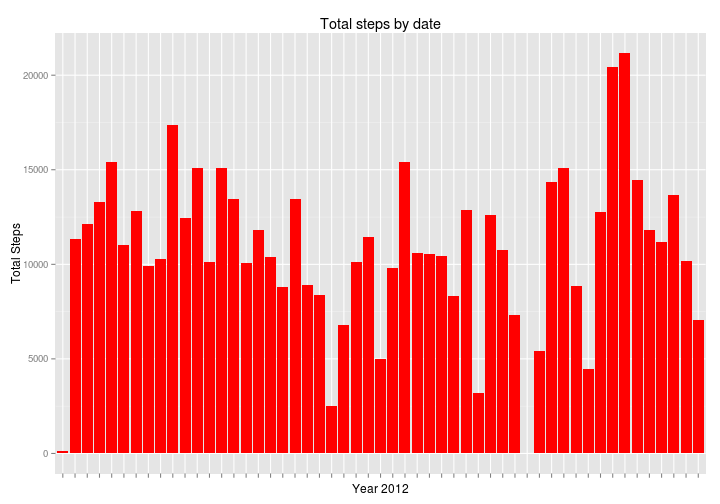
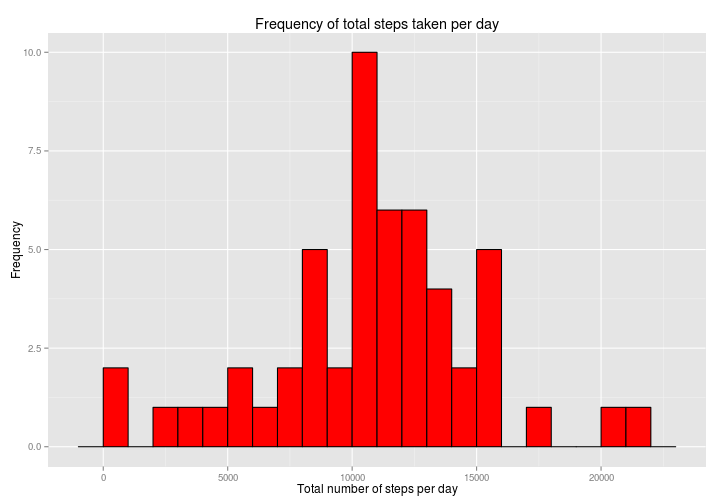
finish part 1

diff --git a/PA1_template.html b/PA1_template.html
@@ -183,18 +183,23 @@ hljs.initHighlightingOnLoad();
 
 <h2>Loading and preprocessing the data</h2>
 
-<pre><code class="r">options(scipen=999)
+<pre><code class="r">library(plyr)
+options(scipen=999)
 zipPath &lt;- &quot;activity.zip&quot;;
 filename &lt;- &quot;activity.csv&quot;;
 csvfile &lt;- unz (zipPath, filename);
 raw_data &lt;- read.csv(csvfile)
-clean_data = raw_data[!is.na(raw_data$steps), ]
-non_zero_data = clean_data[clean_data$steps != 0, c(&#39;date&#39;, &#39;steps&#39;)]
+clean_data &lt;- raw_data[!is.na(raw_data$steps), ]
+clean_data &lt;- clean_data[clean_data$steps != 0, c(&#39;date&#39;, &#39;steps&#39;)]
 
 # group data by date and sum the steps
-aggregate_data &lt;- aggregate(x=non_zero_data$steps, by=list(non_zero_data$date), FUN = sum)
+aggregate_data &lt;- aggregate(x=clean_data$steps, by=list(clean_data$date), FUN = sum)
 colnames(aggregate_data) &lt;- c(&#39;date&#39;, &#39;total_steps&#39;)
-aggregate_data$month_date &lt;- substr(aggregate_data$date, 6, nchar(as.character(aggregate_data$date)))
+
+# group by number of steps and count number of occurrences
+aggregate_steps &lt;- count(aggregate_data, &quot;total_steps&quot;)
+colnames(aggregate_steps) &lt;- c(&#39;steps&#39;, &#39;frequency&#39;)
+aggregate_data &lt;- aggregate_data[order(aggregate_data$total_steps), ]
 
 mean_steps = mean(aggregate_data$total_steps)
 median_steps = median(aggregate_data$total_steps)
@@ -203,15 +208,16 @@ median_steps = median(aggregate_data$total_steps)
 <h2>What is mean total number of steps taken per day?</h2>
 
 <pre><code class="r">library(ggplot2)
-p1 &lt;- ggplot(data=aggregate_data, aes(x=aggregate_data$month_date,y=aggregate_data$total_steps)) + geom_bar(stat=&quot;identity&quot;, fill=&quot;red&quot;) + ggtitle(&quot;Total steps by date&quot;) + xlab(&#39;Year 2012&#39;) + ylab(&#39;Total Steps&#39;) + theme(axis.text.x = element_blank())
+p1 &lt;- ggplot(aggregate_data, aes(x=aggregate_data$total_steps))
+p1 &lt;- p1 + geom_histogram(fill=&quot;red&quot;, color=&quot;black&quot;, binwidth=1000) + ggtitle(&quot;Frequency of total steps taken per day&quot;) + xlab(&#39;Total number of steps per day&#39;) + ylab(&#39;Frequency&#39;)
 print (p1)
 </code></pre>
 
[2 lines of base64/hex data omitted]
 
 <ol>
-<li>The mean total number of steps is 10766.1887.</li>
-<li>The median total number of steps is 10765.</li>
+<li>The mean total number of steps taken per day is 10766.1887.</li>
+<li>The median total number of steps taken per day is 10765.</li>
 </ol>
 
 <h2>What is the average daily activity pattern?</h2>

diff --git a/PA1_template.md b/PA1_template.md
@@ -5,18 +5,23 @@
 
 
 ```r
+library(plyr)
 options(scipen=999)
 zipPath <- "activity.zip";
 filename <- "activity.csv";
 csvfile <- unz (zipPath, filename);
 raw_data <- read.csv(csvfile)
-clean_data = raw_data[!is.na(raw_data$steps), ]
-non_zero_data = clean_data[clean_data$steps != 0, c('date', 'steps')]
+clean_data <- raw_data[!is.na(raw_data$steps), ]
+clean_data <- clean_data[clean_data$steps != 0, c('date', 'steps')]
 
 # group data by date and sum the steps
-aggregate_data <- aggregate(x=non_zero_data$steps, by=list(non_zero_data$date), FUN = sum)
+aggregate_data <- aggregate(x=clean_data$steps, by=list(clean_data$date), FUN = sum)
 colnames(aggregate_data) <- c('date', 'total_steps')
-aggregate_data$month_date <- substr(aggregate_data$date, 6, nchar(as.character(aggregate_data$date)))
+
+# group by number of steps and count number of occurrences
+aggregate_steps <- count(aggregate_data, "total_steps")
+colnames(aggregate_steps) <- c('steps', 'frequency')
+aggregate_data <- aggregate_data[order(aggregate_data$total_steps), ]
 
 mean_steps = mean(aggregate_data$total_steps)
 median_steps = median(aggregate_data$total_steps)
@@ -27,14 +32,15 @@ median_steps = median(aggregate_data$total_steps)
 
 ```r
 library(ggplot2)
-p1 <- ggplot(data=aggregate_data, aes(x=aggregate_data$month_date,y=aggregate_data$total_steps)) + geom_bar(stat="identity", fill="red") + ggtitle("Total steps by date") + xlab('Year 2012') + ylab('Total Steps') + theme(axis.text.x = element_blank())
+p1 <- ggplot(aggregate_data, aes(x=aggregate_data$total_steps))
+p1 <- p1 + geom_histogram(fill="red", color="black", binwidth=1000) + ggtitle("Frequency of total steps taken per day") + xlab('Total number of steps per day') + ylab('Frequency')
 print (p1)
 ```
 
 ![plot of chunk total_steps](figure/total_steps.png) 
 
-1. The mean total number of steps is 10766.1887.
-2. The median total number of steps is 10765.
+1. The mean total number of steps taken per day is 10766.1887.
+2. The median total number of steps taken per day is 10765.
 
 ## What is the average daily activity pattern?
 
